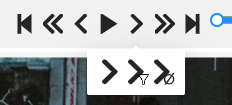
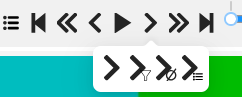
Document chapters feature

diff --git a/site/content/en/docs/annotation/annotation-editor/navbar.md b/site/content/en/docs/annotation/annotation-editor/navbar.md
@@ -58,17 +58,18 @@ with detailed descriptions provided in the table below.
 
 ![Navigation Controls](/images/navigation_controls.png)
 
-| Function | Description |
-| ------------------------------------------------------------------------------------------------------------- | -------------------------------------------------------------------------------------------------------------------------------------------------------------------------------------------------------------------------------------------------------------------------------------------------------------------------------------------------------------------------------------------------------------------------------------------------------------------------------------------------------------------------------------------------------------------------------------------------------------------------------------------------------------------------------------------------- |
-| **Go to the first**/**last frame**<br><br> ![First last frame controls](/images/image036.jpg) | Navigate to the first or the last frame of the sequence. |
-| **Go back with a step**/**Go next with a step**<br><br>![Go to a step controls](/images/image037.jpg) | Move to the previous or next frame by a predefined step. <br><br>Shortcuts:<br><li>**C** — previous frame. <li>**V** — next frame. <br><br>Default step size is `10` frames. To modify this, navigate to **Nickname** > **Settings** > **Player Step**. |
-| **Go back**/**Go next**<br><br>![Go back and go forth controls](/images/go_back_next.png) | Navigate to the neighboring frames. <br><br>Shortcuts:<br><li> **D** — previous frame. <li>**F** — next frame.<br><br>**Go back**/**Go next** buttons are customizable: <br><br>![User interface with customization options for "Go back" and "Go next" buttons](/images/go_back_custom.png)<br><br>To customize, right-click on the button and select one of three options (left to right): <ol><li>The default setting moves to the next or previous frame (step size is 1 frame).</li><li>Move to the next or previous frame that contains objects (e.g., filtered). For more information, refer to {{< ilink "/docs/annotation/manual-annotation/utilities/filter" "Filters" >}}.</li><li>Move to the next or previous frame without annotations. Use this option to quickly locate missed frames.</li></ol>. |
-| **Play**/**Pause**<br><br>![Play and pause](/images/image041.jpg) | Switch between playing and pausing the sequence of frames or set of images. <br>Shortcut: **Space**. <br>To adjust the playback speed, go to **Nickname** > **Settings** > **Player Speed**. |
-| **Go to the specific frame**<br><br>![Go to the specific frame](/images/image060.jpg) | Enter the number of the frame you want to go to and press **Enter**. |
-| **Search frame by filename**<br><br>![Search frame by filename](/images/navigation_search_icon.png) | Click to open the search pop-up. Type a frame filename to search for it within the job. Select the filename and press **Enter** to navigate to the selected frame. |
-| **Copy frame name**<br><br>![Copy frame name](/images/navigation_icons_copy_filename.png) | Click to copy frame name to the clipboard. |
-| **Copy frame link**<br><br>![Delete frame](/images/navigation_icons_copy_link.png) | Click to copy link to the frame. |
-| **Delete frame**<br><br>![Delete frame](/images/navigation_icons_delete_frame.png) | Click to delete or restore current frame. |
+| Function                                                                                              | Description                                                                                                                                                                                                                                                                                                                                                                                                                                                                                                                                                                                                                                                                                                                                                                                                                                                                                                                                                                                         |
+|-------------------------------------------------------------------------------------------------------|-----------------------------------------------------------------------------------------------------------------------------------------------------------------------------------------------------------------------------------------------------------------------------------------------------------------------------------------------------------------------------------------------------------------------------------------------------------------------------------------------------------------------------------------------------------------------------------------------------------------------------------------------------------------------------------------------------------------------------------------------------------------------------------------------------------------------------------------------------------------------------------------------------------------------------------------------------------------------------------------------------|
+| **Toggle chapter menu**<br><br> ![Chapter menu](/images/chapter_menu01.png)                           | Presents the list of chapters stored in the metadata of the video file. Click on a chapter in the list to seek the player to the start frame of this chapter. <br><br>![Chapter list](/image/chapter_list.jpg)<br><br>Only available in video tasks and if the video file contains chapters.                                                                                                                                                                                                                                                                                                                                                                                                                                                                                                                                                                                                                                                                                                        |
+| **Go to the first**/**last frame**<br><br> ![First last frame controls](/images/image036.jpg)         | Navigate to the first or the last frame of the sequence.                                                                                                                                                                                                                                                                                                                                                                                                                                                                                                                                                                                                                                                                                                                                                                                                                                                                                                                                            |
+| **Go back with a step**/**Go next with a step**<br><br>![Go to a step controls](/images/image037.jpg) | Move to the previous or next frame by a predefined step. <br><br>Shortcuts:<br><li>**C** — previous frame. <li>**V** — next frame. <br><br>Default step size is `10` frames. To modify this, navigate to **Nickname** > **Settings** > **Player Step**.                                                                                                                                                                                                                                                                                                                                                                                                                                                                                                                                                                                                                                                                                                                                             |
+| **Go back**/**Go next**<br><br>![Go back and go forth controls](/images/go_back_next.png)             | Navigate to the neighboring frames. <br><br>Shortcuts:<br><li> **D** — previous frame. <li>**F** — next frame.<br><br>**Go back**/**Go next** buttons are customizable: <br><br>![User interface with customization options for "Go back" and "Go next" buttons](/images/go_back_custom.png)<br><br>To customize, right-click on the button and select one of three options (left to right): <ol><li>The default setting moves to the next or previous frame (step size is 1 frame).</li><li>Move to the next or previous frame that contains objects (e.g., filtered). For more information, refer to {{< ilink "/docs/annotation/manual-annotation/utilities/filter" "Filters" >}}.</li><li>Move to the next or previous frame without annotations. Use this option to quickly locate missed frames.</li><li>Move to the next or previous chapter. Use this option to quickly locate relevant frames to annotate (e.g. a car you marked with a chapter mark while recording the video)</li></ol>. |
+| **Play**/**Pause**<br><br>![Play and pause](/images/image041.jpg)                                     | Switch between playing and pausing the sequence of frames or set of images. <br>Shortcut: **Space**. <br>To adjust the playback speed, go to **Nickname** > **Settings** > **Player Speed**.                                                                                                                                                                                                                                                                                                                                                                                                                                                                                                                                                                                                                                                                                                                                                                                                        |
+| **Go to the specific frame**<br><br>![Go to the specific frame](/images/image060.jpg)                 | Enter the number of the frame you want to go to and press **Enter**.                                                                                                                                                                                                                                                                                                                                                                                                                                                                                                                                                                                                                                                                                                                                                                                                                                                                                                                                |
+| **Search frame by filename**<br><br>![Search frame by filename](/images/navigation_search_icon.png)   | Click to open the search pop-up. Type a frame filename to search for it within the job. Select the filename and press **Enter** to navigate to the selected frame.                                                                                                                                                                                                                                                                                                                                                                                                                                                                                                                                                                                                                                                                                                                                                                                                                                  |
+| **Copy frame name**<br><br>![Copy frame name](/images/navigation_icons_copy_filename.png)             | Click to copy frame name to the clipboard.                                                                                                                                                                                                                                                                                                                                                                                                                                                                                                                                                                                                                                                                                                                                                                                                                                                                                                                                                          |
+| **Copy frame link**<br><br>![Delete frame](/images/navigation_icons_copy_link.png)                    | Click to copy link to the frame.                                                                                                                                                                                                                                                                                                                                                                                                                                                                                                                                                                                                                                                                                                                                                                                                                                                                                                                                                                    |
+| **Delete frame**<br><br>![Delete frame](/images/navigation_icons_delete_frame.png)                    | Click to delete or restore current frame.                                                                                                                                                                                                                                                                                                                                                                                                                                                                                                                                                                                                                                                                                                                                                                                                                                                                                                                                                           |
 
 ## Job information and Annotation Mode switcher
 
